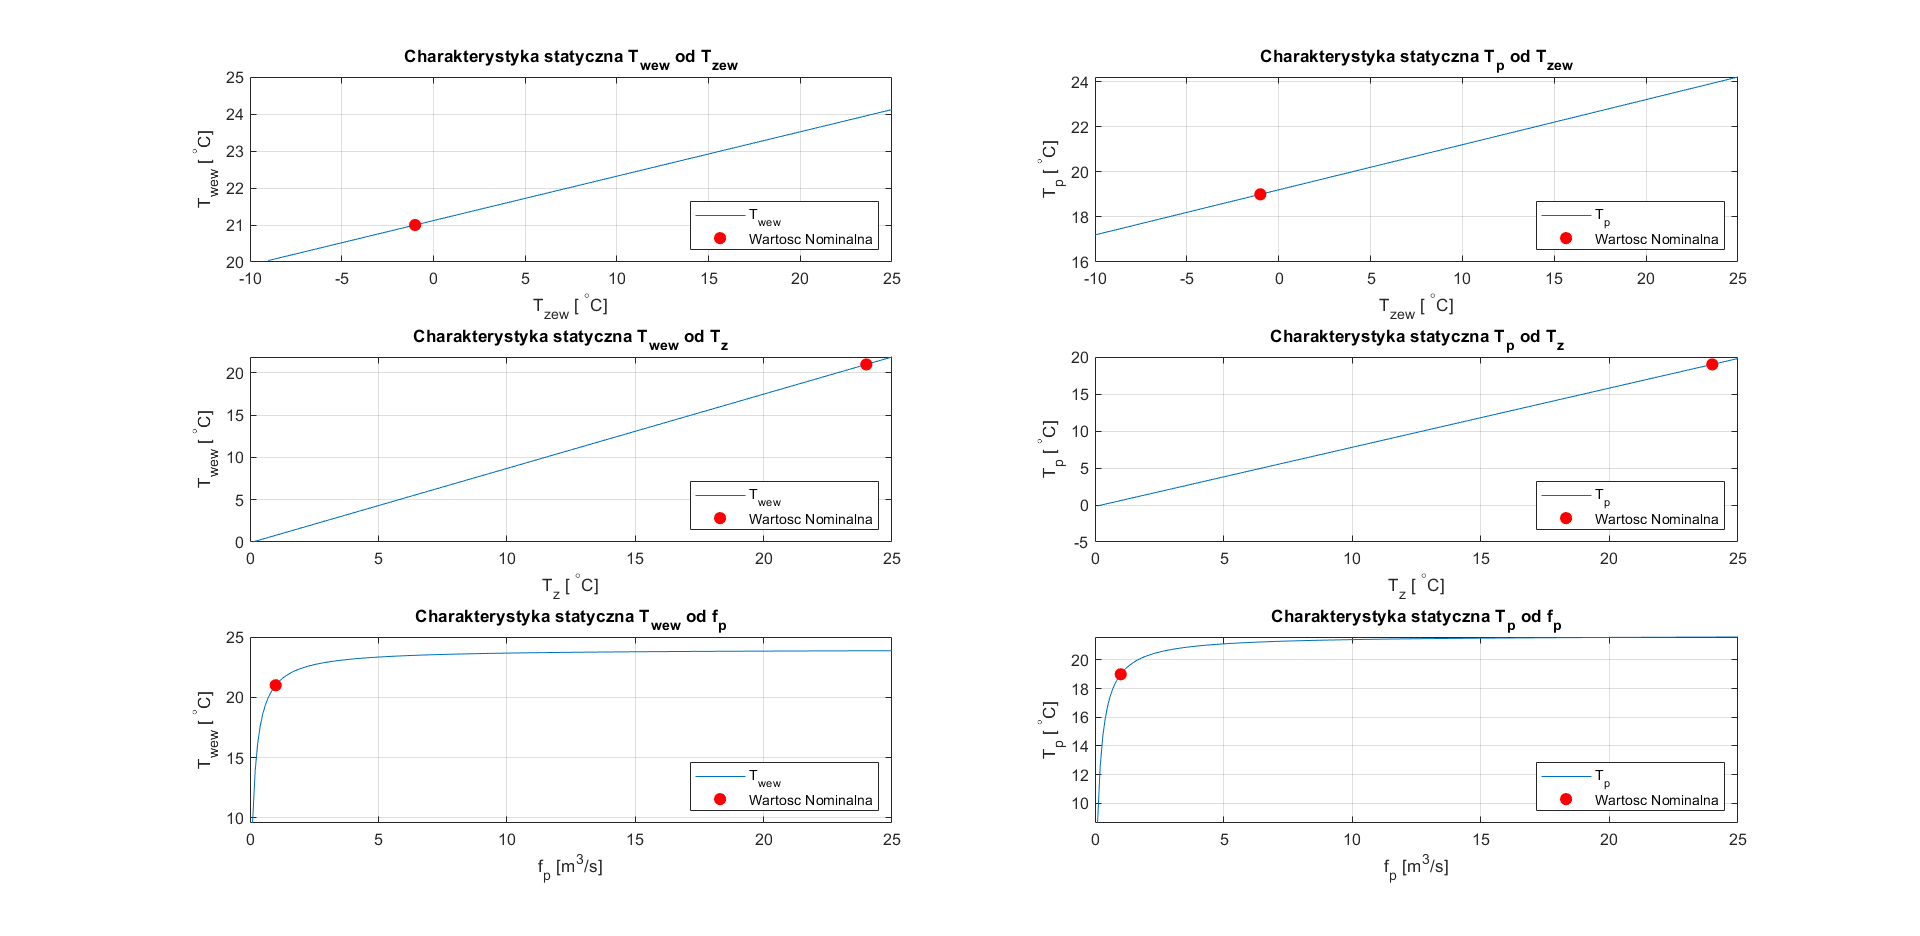
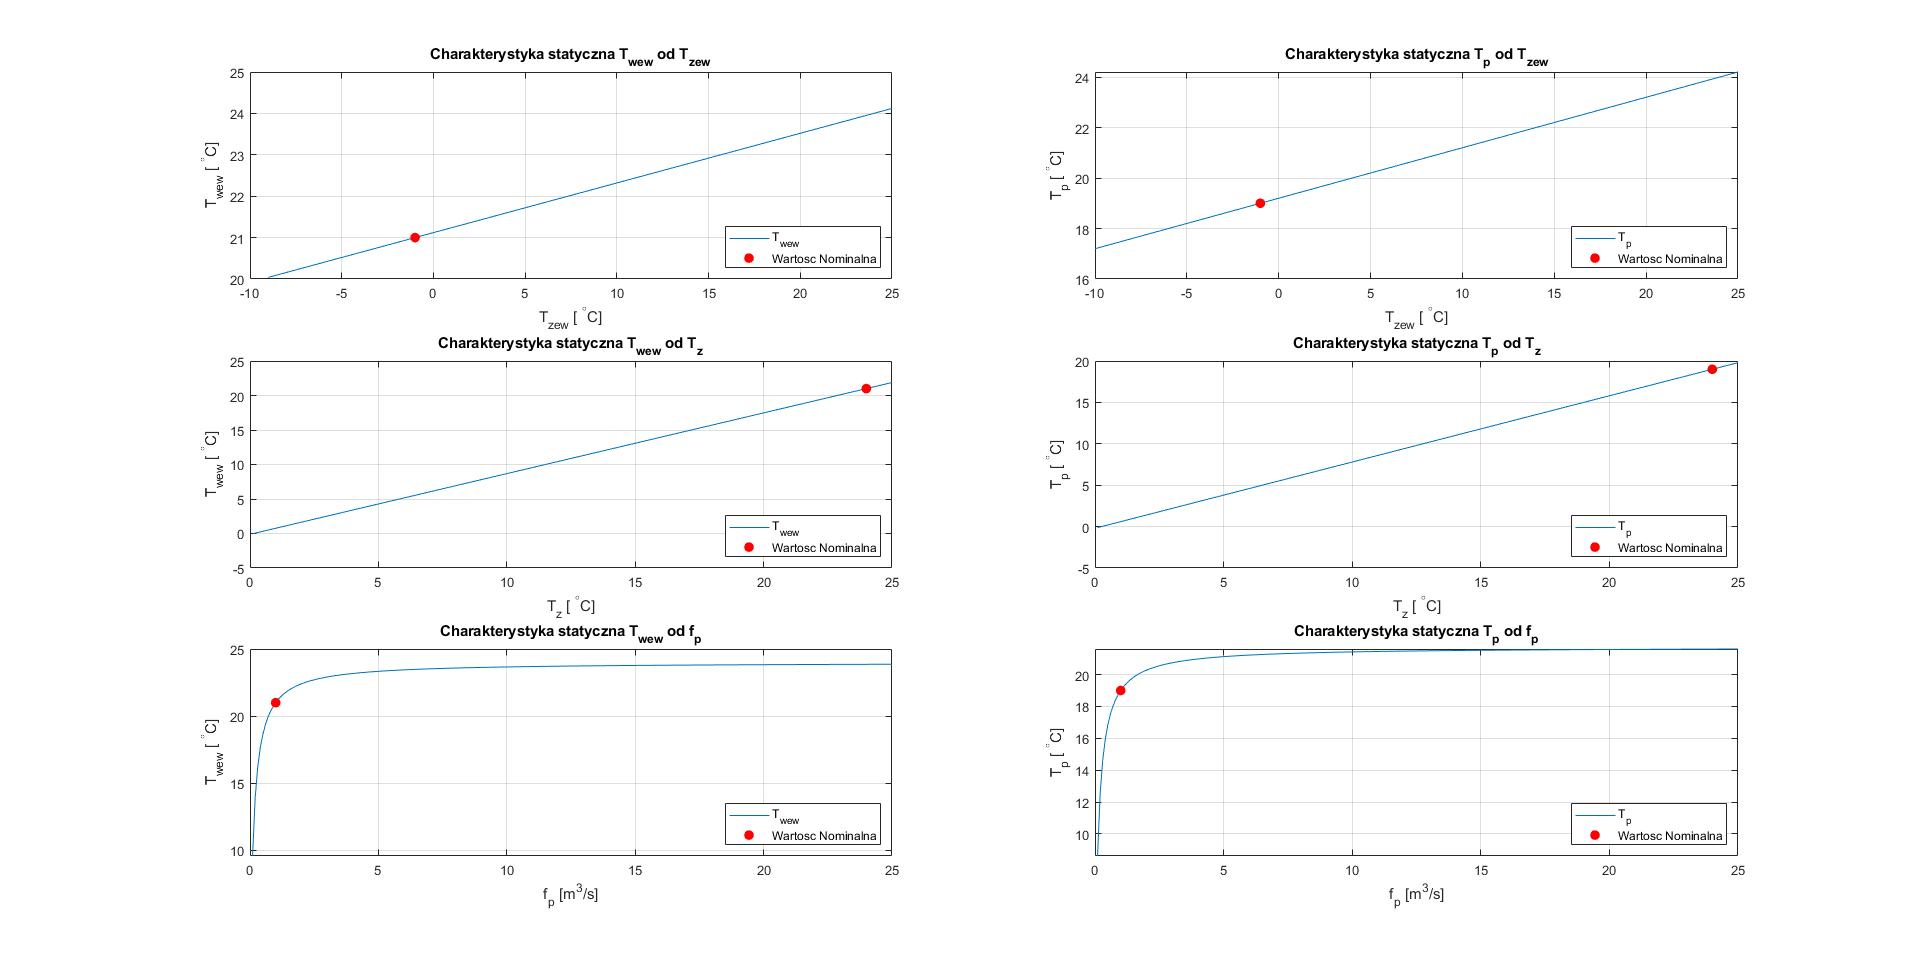
.

diff --git a/LAB9_Start_MiniProjekt/Skrypty/my_dom_statyczne.m b/LAB9_Start_MiniProjekt/Skrypty/my_dom_statyczne.m
@@ -20,7 +20,7 @@ C_vp = c_p*ro_p*V_p;   % J/k
 % Do zmniejszenia zapisu
 a=c_p*ro_p*f_pN;
 % Pro_porcja K
-p=1.25;
+p=0.25;
 % Obliczanie wspolczynnikow K
 A = [(T_wewN-T_pN), (T_wewN-T_zewN); 
      (T_wewN-T_pN), (-p*(T_pN-T_zewN))];

diff --git a/LAB9_Start_MiniProjekt/Skrypty/leveled_NL.m b/LAB9_Start_MiniProjekt/Skrypty/leveled_NL.m
@@ -25,7 +25,7 @@ C_vp = c_p*ro_p*V_p;   % J/k
 % Do zmniejszenia zapisu
 a=c_p*ro_p*f_pN;
 % Proporcja K
-p=1.25;
+p=0.25;
 % Obliczanie wspolczynnikow K
 A = [(T_wewN-T_pN), (T_wewN-T_zewN); 
      (T_wewN-T_pN), (-p*(T_pN-T_zewN))];

diff --git a/LAB9_Start_MiniProjekt/Skrypty/leveled_state_space.m b/LAB9_Start_MiniProjekt/Skrypty/leveled_state_space.m
@@ -21,7 +21,7 @@ C_vp = c_p*ro_p*V_p;   % J/k
 % Do zmniejszenia zapisu
 a=c_p*ro_p*f_pN;
 % Proporcja K
-p=1.25;
+p=0.25;
 % Obliczanie wspolczynnikow K
 A = [(T_wewN-T_pN), (T_wewN-T_zewN); 
      (T_wewN-T_pN), (-p*(T_pN-T_zewN))];

diff --git a/LAB9_Start_MiniProjekt/Skrypty/my_dom.m b/LAB9_Start_MiniProjekt/Skrypty/my_dom.m
@@ -21,7 +21,7 @@ C_vp = c_p*ro_p*V_p;   % J/k
 % Do zmniejszenia zapisu
 a=c_p*ro_p*f_pN;
 % Proporcja K
-p=1.25;
+p=0.25;
 % Obliczanie wspolczynnikow K
 A = [(T_wewN-T_pN), (T_wewN-T_zewN); 
      (T_wewN-T_pN), (-p*(T_pN-T_zewN))];

diff --git a/LAB9_Start_MiniProjekt/Skrypty/my_dom_state_space_script.m b/LAB9_Start_MiniProjekt/Skrypty/my_dom_state_space_script.m
@@ -21,7 +21,7 @@ C_vp = c_p*ro_p*V_p;   % J/k
 % Do zmniejszenia zapisu
 a=c_p*ro_p*f_pN;
 % Proporcja K
-p=1.25;
+p=0.25;
 % Obliczanie wspolczynnikow K
 A = [(T_wewN-T_pN), (T_wewN-T_zewN); 
      (T_wewN-T_pN), (-p*(T_pN-T_zewN))];

diff --git a/LAB9_Start_MiniProjekt/Skrypty/my_dom_trans_script.m b/LAB9_Start_MiniProjekt/Skrypty/my_dom_trans_script.m
@@ -21,7 +21,7 @@ C_vp = c_p*ro_p*V_p;   % J/k
 % Do zmniejszenia zapisu
 a=c_p*ro_p*f_pN;
 % Proporcja K
-p=1.25;
+p=0.25;
 % Obliczanie wspolczynnikow K
 A = [(T_wewN-T_pN), (T_wewN-T_zewN); 
      (T_wewN-T_pN), (-p*(T_pN-T_zewN))];
